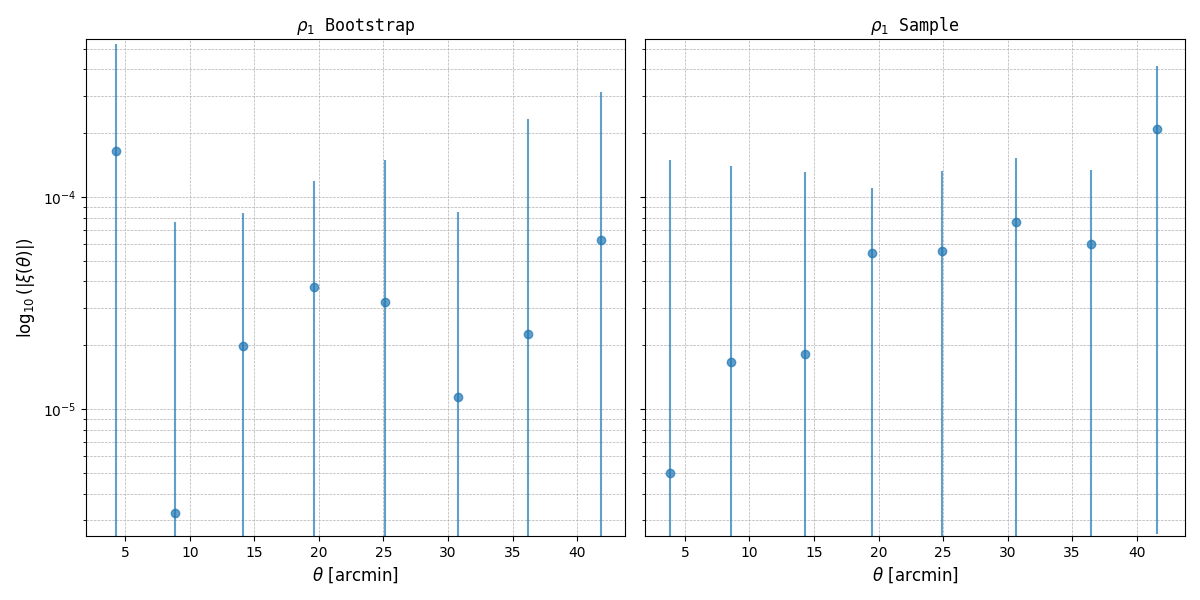
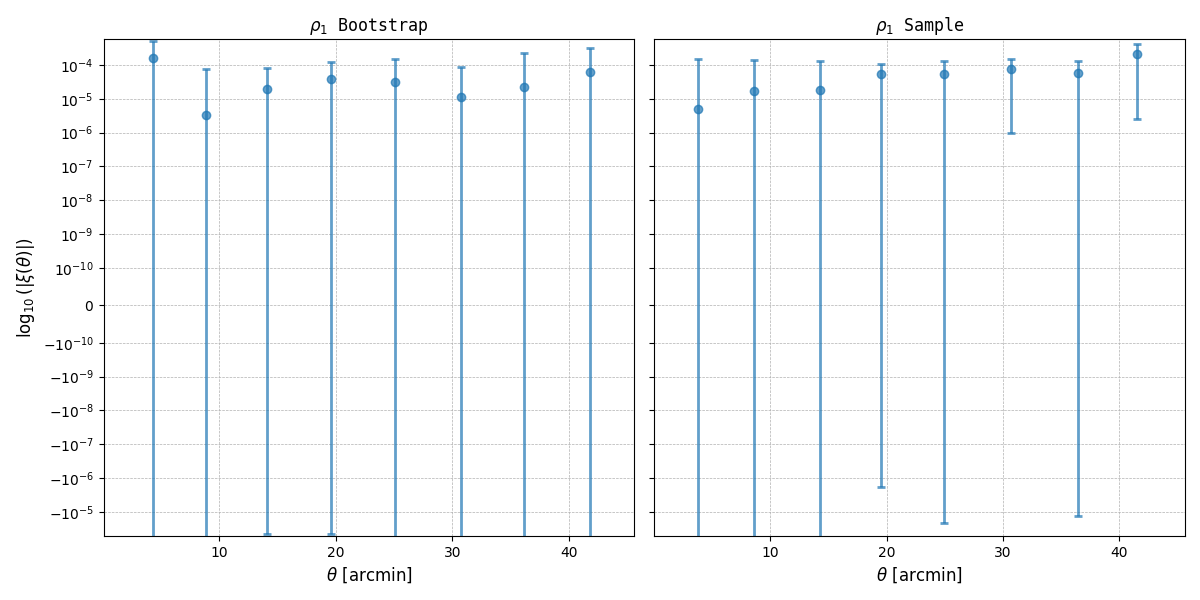
npy

diff --git a/assets/rho_plot.py b/assets/rho_plot.py
@@ -1,5 +1,8 @@
 import numpy as np
 import matplotlib.pyplot as plt
+plt.rcParams['font.weight'] = 'bold'
+plt.rcParams['axes.labelweight'] = 'bold'
+plt.rcParams['axes.titleweight'] = 'bold'
 
 # Define file names for rho statistics
 file_mapping = {
@@ -48,8 +51,8 @@ for rho, datasets in file_mapping.items():
     y_min_global = max(y_min_global, 1e-10)
 
     # Add buffer for axis limits
-    x_buffer = (x_max_global - x_min_global) * 0.05
-    y_buffer = (y_max_global - y_min_global) * 0.05
+    x_buffer = (x_max_global - x_min_global) * 0.1
+    y_buffer = (y_max_global - y_min_global) * 0.1
 
     # Plot each method with the same bounds
     for ax, (method, (distance_file, mean_file, std_file)) in zip(axes, datasets.items()):
@@ -57,15 +60,16 @@ for rho, datasets in file_mapping.items():
         means = np.abs(np.load(mean_file))
         stds = np.load(std_file)
 
-        ax.errorbar(distances, means, yerr=stds, fmt='o', alpha=0.7)
+        ax.errorbar(distances, means, yerr=stds, fmt='o', alpha=0.7,elinewidth=2, capsize=3, capthick=2)
         ax.set_yscale('log')
+        #ax.set_yscale('symlog', linthresh=1e-10)
         ax.set_xlim(x_min_global - x_buffer, x_max_global + x_buffer)
         ax.set_ylim(y_min_global - y_buffer, y_max_global + y_buffer)
-        ax.set_xlabel(r'$θ \ [\mathrm{arcmin}]$', fontsize=12, family='monospace')
-        ax.set_title(rf'$\rho_{{{rho[-1]}}}$ {method.capitalize()}', fontsize=12, family='monospace')
+        ax.set_xlabel(r'$θ \ [\mathrm{arcmin}]$', fontsize=24, family='monospace')
+        ax.set_title(rf'$\rho_{{{rho[-1]}}}$ {method.capitalize()}', fontsize=24, family='monospace')
         ax.grid(True, which="both", linestyle='--', linewidth=0.5)
 
     # Set shared ylabel
-    axes[0].set_ylabel(r'$\log_{10}(|\xi(\theta)|)$', fontsize=12, family='monospace')
+    axes[0].set_ylabel(r'$|\rho(\theta)|$', fontsize=24, family='monospace')
     plt.tight_layout()
-    plt.savefig(f'{rho}_plot.png')
+    plt.savefig(f'bolder_{rho}_plot.png')

diff --git a/benchmarks/vignet_quiver_plot.py b/benchmarks/vignet_quiver_plot.py
@@ -143,7 +143,7 @@ lx, rx = ax.get_xlim()
 ly, ry = ax.get_ylim()
 ax.set_xlim(lx-2000, rx+2000)
 ax.set_ylim(ly-500, ry+500)
-ax.set_title(star_title, fontsize=32)
+ax.set_title(star_title, fontsize=48)
 ax_divider = make_axes_locatable(ax)
 cax = ax_divider.append_axes("bottom", size="5%", pad="7%")
 cbar = fig.colorbar(q, cax=cax, orientation="horizontal")

diff --git a/assets/galaxy_maker.py b/assets/galaxy_maker.py
@@ -22,5 +22,5 @@ for i in range(num_spirals):
 # Adjust plot aesthetics
 plt.axis('off')  # Remove background grid and coordinates
 #plt.title("Spirals with Random Growth and Theta Offsets", fontsize=16)
-plt.savefig('spiral.png')
+plt.savefig('spiral_transparent.png', transparent=True)
 
